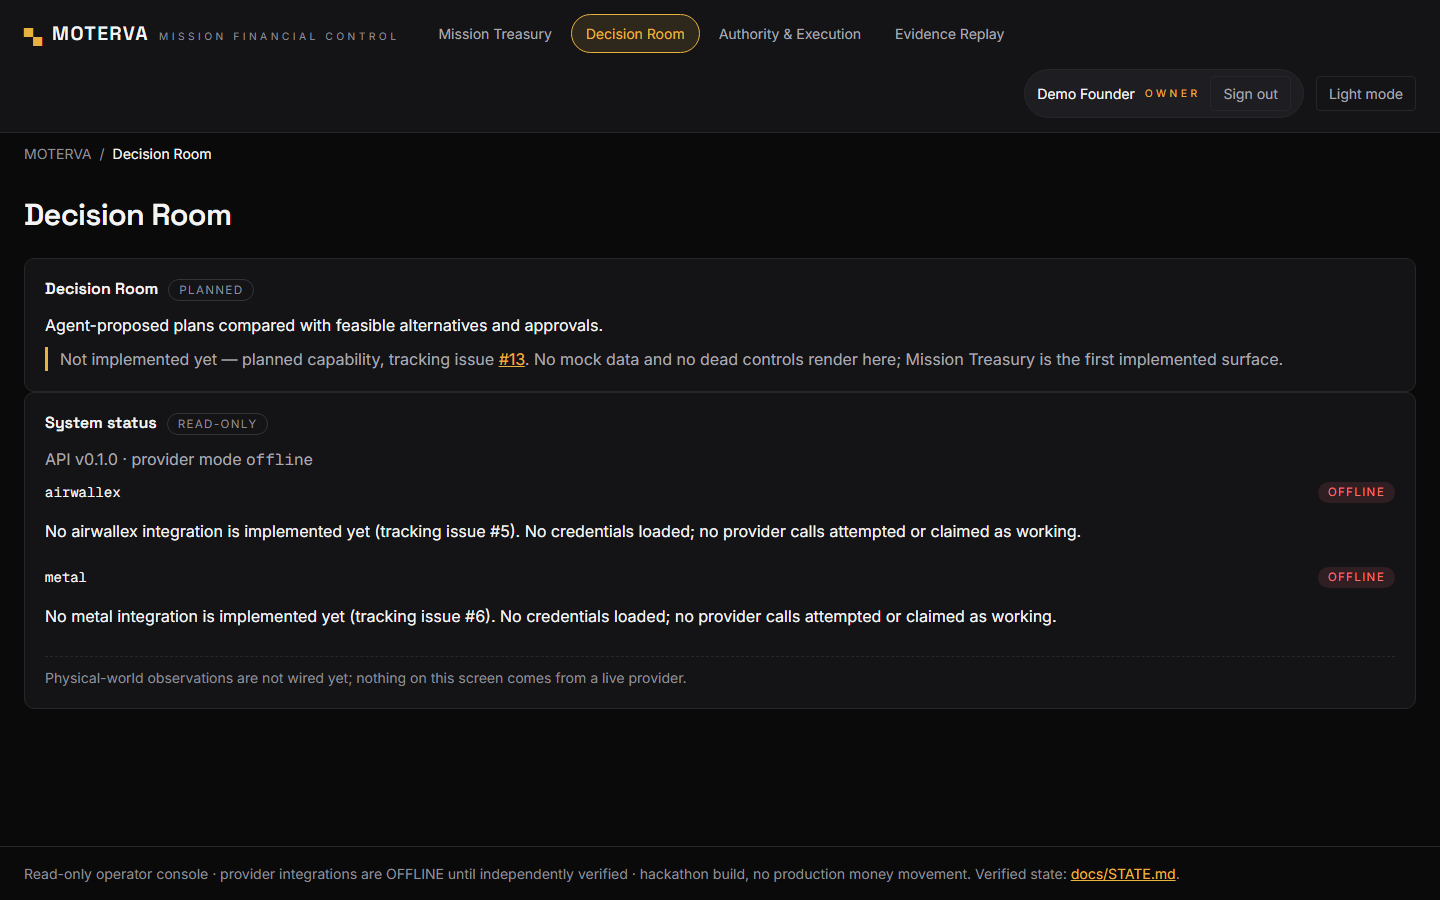
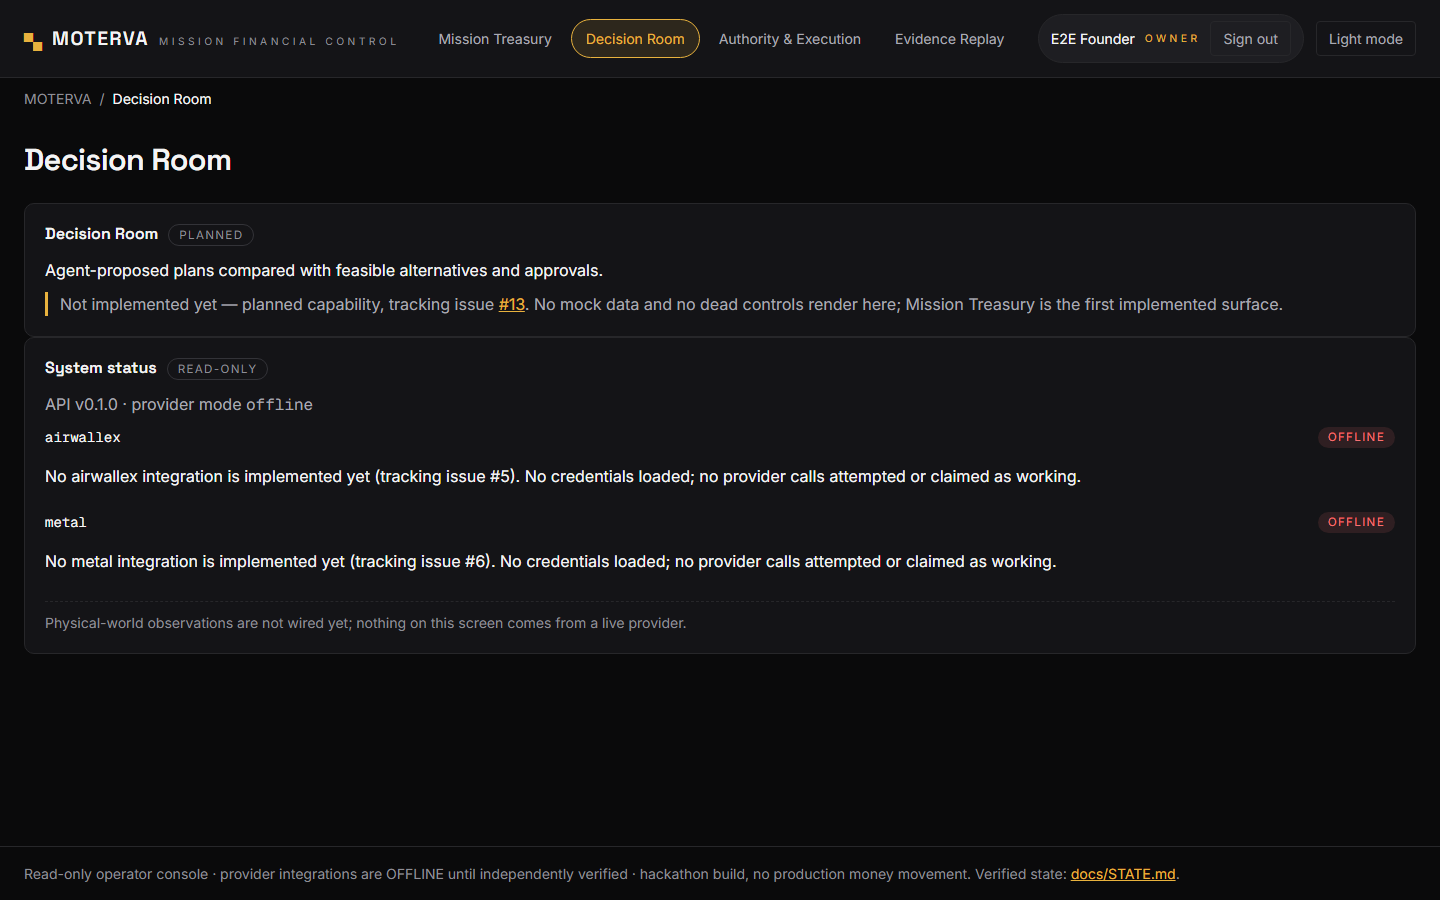
fix(mtv-08.2): founder-guardrail corrections - session/logout, mandate expiry honesty, mobile ordering, authenticated E2E
Session/logout: the CSRF token now persists across reloads (loopback demo gate, not a credential) so Sign out works after a page reload; a failed sign-out keeps the server-side session and surfaces the error instead of faking a signed-out state. Mandate expiry: an active mandate whose expiry has passed by wall clock renders an explicit expiry-passed chip and lapsed date while keeping the ledger status truthful (the ledger refuses already-expired mandates; the e2e seed uses a 200ms fuse). Mobile ordering: below 1024px the selected mission's financial content renders before the mission selector. Authenticated E2E: e2e/scripts/demo-auth-server.mjs seeds a throwaway ledger (real mandates incl. lapsed + superseded + consumed envelopes) and starts the API with the loopback DEMO_AUTH gate; three new tests cover login with real envelope math, lapsed/superseded honesty, mission switching, reload-persistent session, CSRF-persisted logout, and wrong-password handling. 11 e2e total; production captures regenerated.

diff --git a/e2e/authenticated.spec.ts b/e2e/authenticated.spec.ts
@@ -1,0 +1,73 @@
+import { expect, test } from '@playwright/test';
+
+/**
+ * Authenticated operator journey against the REAL API + seeded throwaway
+ * ledger (e2e/scripts/demo-auth-server.mjs): login → missions → mandate
+ * envelope math → lapsed-expiry honesty → mission switch → reload keeps the
+ * session → sign out works with the persisted CSRF token.
+ */
+test.describe('authenticated treasury journey', () => {
+  test('login renders real ledger data with honest mandate states', async ({ page }) => {
+    await page.goto('/');
+    await page.getByLabel('Username').fill('founder');
+    await page.getByLabel('Password').fill('moterva-e2e-demo');
+    await page.getByRole('button', { name: 'Sign in' }).click();
+
+    await expect(page.getByTestId('actor-chip')).toContainText('E2E Founder');
+
+    // Real missions from the ledger.
+    const missions = page.getByTestId('missions-panel');
+    await expect(missions).toContainText('Harbor turbine inspection');
+    await expect(missions).toContainText('Subsea mooring survey');
+
+    // Real envelope math: USD 150,000.00 total, 60,000.00 committed → 90,000.00 remaining.
+    const mandates = page.getByTestId('mandates-panel');
+    await expect(mandates).toContainText('USD 90,000.00');
+    await expect(mandates).toContainText('of 150,000.00 envelope');
+    await expect(mandates).toContainText('40% committed');
+
+    // Honest status semantics: three active mandates (USD, EUR and the
+    // clock-lapsed GBP), a superseded history row, and the lapsed surfacing.
+    await expect(mandates.locator('.mv-chip--info', { hasText: 'Mandate active' })).toHaveCount(3);
+    await expect(mandates.locator('.mv-chip--neutral', { hasText: 'Superseded' })).toBeVisible();
+    await expect(page.getByTestId('lapsed-tag')).toContainText('expiry passed');
+    await expect(mandates.getByText('— lapsed')).toBeVisible();
+
+    // Mission selection actually drives the content.
+    await page.getByRole('button', { name: /Subsea mooring survey/ }).click();
+    await expect(page.getByTestId('mission-hero')).toContainText('Subsea mooring survey');
+    await expect(page.getByTestId('mandates-panel')).toContainText('USD 48,000.00');
+
+    // The fixture-free honesty contract still holds.
+    await expect(page.getByText('USD 184,250')).toHaveCount(0);
+  });
+
+  test('session survives reload and sign out works with the persisted CSRF token', async ({
+    page,
+  }) => {
+    await page.goto('/');
+    await page.getByLabel('Username').fill('founder');
+    await page.getByLabel('Password').fill('moterva-e2e-demo');
+    await page.getByRole('button', { name: 'Sign in' }).click();
+    await expect(page.getByTestId('actor-chip')).toBeVisible();
+
+    // Reload: cookie session + stored CSRF token must keep Sign out functional.
+    await page.reload();
+    await expect(page.getByTestId('actor-chip')).toContainText('E2E Founder');
+    await expect(page.getByTestId('missions-panel')).toBeVisible();
+
+    await page.getByRole('button', { name: 'Sign out' }).click();
+    await expect(page.getByTestId('signin-panel')).toBeVisible();
+    await expect(page.getByTestId('actor-chip')).toHaveCount(0);
+  });
+
+  test('wrong password shows the server error, never a session', async ({ page }) => {
+    await page.goto('/');
+    await page.getByLabel('Username').fill('founder');
+    await page.getByLabel('Password').fill('wrong-password');
+    await page.getByRole('button', { name: 'Sign in' }).click();
+    await expect(page.getByRole('alert')).toContainText('invalid credentials');
+    await expect(page.getByTestId('signin-panel')).toBeVisible();
+    await expect(page.getByTestId('actor-chip')).toHaveCount(0);
+  });
+});

diff --git a/apps/web/src/App.tsx b/apps/web/src/App.tsx
@@ -8,6 +8,30 @@ import { ApiError, fetchSession, login, logout, type SessionState } from './lib/
 
 type Theme = 'dark' | 'light';
 
+const CSRF_STORAGE_KEY = 'moterva-csrf';
+
+/**
+ * The CSRF token ships with the login response; the session cookie survives
+ * reloads, so the token must too — otherwise Sign out breaks (403) after a
+ * page reload. Loopback demo gate only; not a credential.
+ */
+function readStoredCsrf(): string | null {
+  try {
+    return window.localStorage.getItem(CSRF_STORAGE_KEY);
+  } catch {
+    return null;
+  }
+}
+
+function storeCsrf(token: string | null): void {
+  try {
+    if (token === null) window.localStorage.removeItem(CSRF_STORAGE_KEY);
+    else window.localStorage.setItem(CSRF_STORAGE_KEY, token);
+  } catch {
+    /* storage unavailable — logout falls back to the in-memory token */
+  }
+}
+
 function readInitialSection(): SectionId {
   const hash = window.location.hash.replace('#', '');
   const match = NAV_ITEMS.find((item) => item.id === hash);
@@ -23,9 +47,10 @@ export function App(): JSX.Element {
   const [section, setSection] = useState<SectionId>(readInitialSection);
   const [theme, setTheme] = useState<Theme>(readInitialTheme);
   const [session, setSession] = useState<SessionState>({ kind: 'checking' });
-  const [csrfToken, setCsrfToken] = useState<string | null>(null);
+  const [csrfToken, setCsrfToken] = useState<string | null>(readStoredCsrf);
   const [loginBusy, setLoginBusy] = useState(false);
   const [loginError, setLoginError] = useState<string | null>(null);
+  const [logoutError, setLogoutError] = useState<string | null>(null);
   const [selectedMissionId, setSelectedMissionId] = useState<string | null>(null);
 
   useEffect(() => {
@@ -59,9 +84,11 @@ export function App(): JSX.Element {
   const handleLogin = (username: string, password: string): void => {
     setLoginBusy(true);
     setLoginError(null);
+    setLogoutError(null);
     login(username, password)
       .then((result) => {
         setCsrfToken(result.csrfToken);
+        storeCsrf(result.csrfToken);
         return fetchSession();
       })
       .then((info) => {
@@ -76,12 +103,19 @@ export function App(): JSX.Element {
 
   const handleLogout = (): void => {
     if (csrfToken === null) return;
+    setLogoutError(null);
     logout(csrfToken)
-      .catch(() => undefined)
-      .finally(() => {
+      .then(() => {
         setCsrfToken(null);
+        storeCsrf(null);
         setSelectedMissionId(null);
         setSession({ kind: 'signed-out' });
+      })
+      .catch((error: unknown) => {
+        // Server-side session stays valid — never fake a signed-out state.
+        setLogoutError(
+          `Sign out failed (${error instanceof Error ? error.message : 'unknown error'}) — the session remains active.`,
+        );
       });
   };
 
@@ -127,6 +161,11 @@ export function App(): JSX.Element {
               <button type="button" className="mv-btn mv-btn--ghost" onClick={handleLogout}>
                 Sign out
               </button>
+            </span>
+          )}
+          {logoutError !== null && actor !== null && (
+            <span className="mv-actor__error" role="alert">
+              {logoutError}
             </span>
           )}
           <button

diff --git a/apps/web/src/screens/Treasury.tsx b/apps/web/src/screens/Treasury.tsx
@@ -284,10 +284,22 @@ export function Treasury({
                     const used = percent(mandate.consumed_minor, total);
                     const kinds = parseJsonArray(mandate.permitted_kinds_json);
                     const rails = parseJsonArray(mandate.rails_json);
+                    // Ledger status is the truth we render; a wall-clock lapse
+                    // is surfaced honestly without inventing a ledger state.
+                    const lapsedByClock =
+                      mandate.status === 'active' && Date.parse(mandate.expires_at) <= Date.now();
                     return (
                       <li className="mv-mandate" key={mandate.id} data-state={mandate.status}>
                         <div className="mv-mandate__head">
                           <StatusChip entry={presentation} />
+                          {lapsedByClock && (
+                            <span className="mv-chip mv-chip--danger" data-testid="lapsed-tag">
+                              <span className="mv-chip__glyph" aria-hidden="true">
+                                ⏱
+                              </span>
+                              expiry passed
+                            </span>
+                          )}
                           <span className="mv-mandate__version">v{mandate.version}</span>
                           <span className="mv-mandate__currency">{mandate.currency}</span>
                         </div>
@@ -323,7 +335,10 @@ export function Treasury({
                             </div>
                             <div>
                               <dt>Expires</dt>
-                              <dd>{formatDate(mandate.expires_at)}</dd>
+                              <dd className={lapsedByClock ? 'mv-mandate__lapsed' : undefined}>
+                                {formatDate(mandate.expires_at)}
+                                {lapsedByClock && ' — lapsed'}
+                              </dd>
                             </div>
                             <div>
                               <dt>Kind / rails</dt>

diff --git a/apps/web/src/styles.css b/apps/web/src/styles.css
@@ -154,6 +154,11 @@ a {
 .mv-actor__role {
   color: var(--mv-accent-text);
 }
+.mv-actor__error {
+  color: var(--mv-danger-text);
+  font-size: var(--mv-size-sm);
+  max-width: 320px;
+}
 
 /* ------------------------------------------------------------ buttons */
 .mv-btn {
@@ -242,6 +247,14 @@ a {
 @media (max-width: 1023px) {
   .mv-grid--treasury {
     grid-template-columns: 1fr;
+  }
+  /* Mobile ordering: the selected mission's financial content comes first;
+     the mission selector follows. Primary-operator reading order. */
+  .mv-grid__main {
+    order: 0;
+  }
+  .mv-grid__side {
+    order: 1;
   }
 }
 .mv-grid__side,
@@ -511,6 +524,9 @@ a {
   margin: 10px 0 0;
   color: var(--mv-ink-3);
   font-size: var(--mv-size-sm);
+}
+.mv-mandate__lapsed {
+  color: var(--mv-danger-text);
 }
 
 /* ------------------------------------------------------------ mission hero */

diff --git a/playwright.config.ts b/playwright.config.ts
@@ -21,7 +21,9 @@ export default defineConfig({
   projects: [{ name: 'chromium', use: { ...devices['Desktop Chrome'] } }],
   webServer: [
     {
-      command: 'npm run start -w @moterva/api',
+      // Seeded throwaway ledger + DEMO_AUTH gate so browser tests exercise
+      // the real authenticated journey. Requires `npm run build` first.
+      command: 'node e2e/scripts/demo-auth-server.mjs',
       url: 'http://127.0.0.1:8787/healthz',
       reuseExistingServer: !process.env.CI,
       timeout: 60_000,
